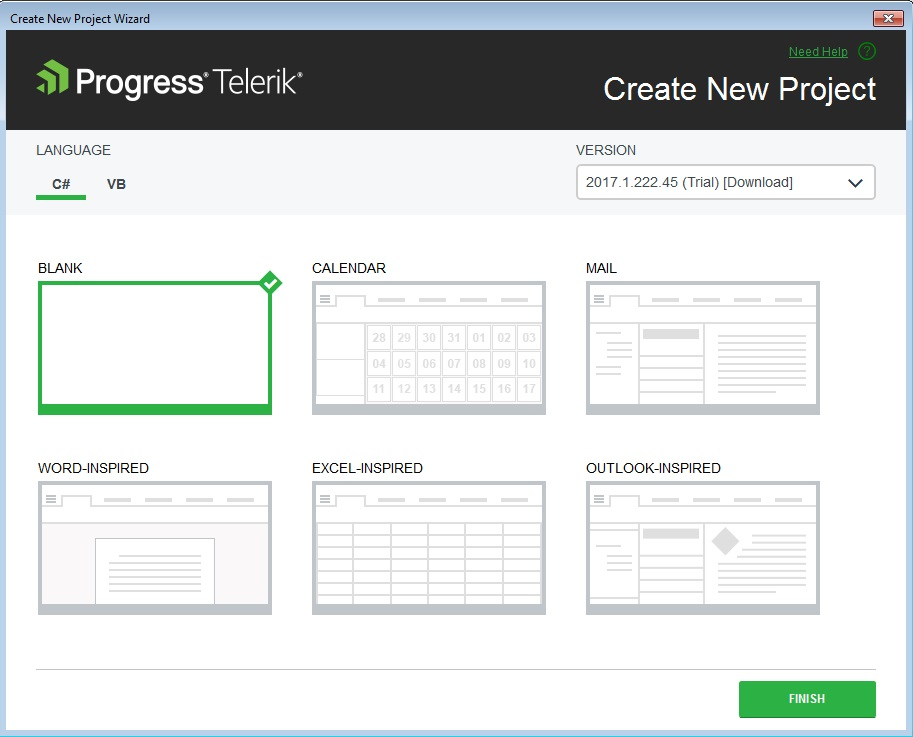
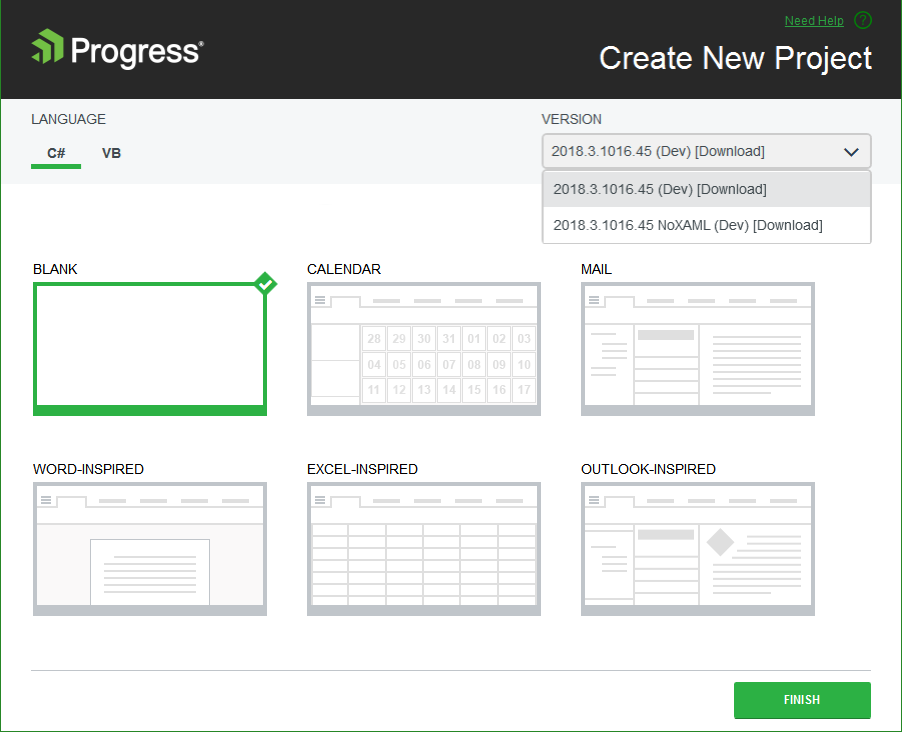
Updated Convert and Create Wizards screen shots

diff --git a/integration/visual-studio-extensions/for-wpf-vs-extensions-project-convert.md b/integration/visual-studio-extensions/for-wpf-vs-extensions-project-convert.md
@@ -21,7 +21,7 @@ The wizard could be also reached through the context menu counterparts accessed 
 
 The Convert Project Wizard lets you tune your project's use of Telerik UI for WPF.
 
-![Project Configuration Wizard](images/VSExtensions_WPF_ProjectConfigWizard.png)
+![Project Configuration Wizard](images/VSExtensions_WPF_ProjectConvertWizard.png)
 
 The wizard’s first page lets you:
         
